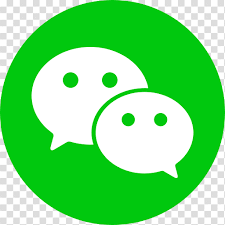
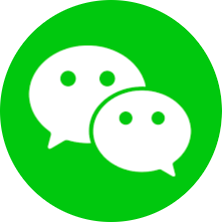
pics

diff --git a/_includes/author-profile.html b/_includes/author-profile.html
@@ -26,7 +26,7 @@
     <!-- <button class="btn btn--inverse">More Info & Contact</button> -->
     <ul class="author__urls social-icons" style="list-style-type: none; padding-left: 0;">
       {% if author.location %}
-        <li style="margin-bottom: 4px; padding-left: 0px;"><i class="fa fa-fw fa-map-marker" aria-hidden="true"></i> {{ author.location }}</li>
+        <li style="margin-bottom: 6px; padding-left: 0px;"><i class="fa fa-fw fa-map-marker" aria-hidden="true"></i> {{ author.location }}</li>
       {% endif %}
       {% if author.linkedin %}
         <li style="margin-bottom: 0px; padding-left: 0px;"><a href="https://www.linkedin.com/in/{{ author.linkedin }}"><i class="fab fa-fw fa-linkedin" aria-hidden="true"></i> LinkedIn</a></li>
@@ -127,7 +127,7 @@
         <!--<li><a href="https://www.weibo.com/{{ author.weibo }}"><i class="fab fa-fw fa-weibo" aria-hidden="true"></i> Weibo</a></li>-->
         <li style="margin-bottom: 0px; padding-left: 0px;">
 			<a href="https://mp.weixin.qq.com/s/{{ author.weixin }}">
-				<img src="../images/wechat.png" alt="\ " style="width: 18px; height: 18px; vertical-align: middle;" aria-hidden="true">
+				<img src="../images/wechat.png" alt="\ " style="width: 16px; height: 16px; vertical-align: middle;" aria-hidden="true">
 				WeChat Subscription
 			</a>
 		</li style="margin-bottom: 0px; padding-left: 0px;">
